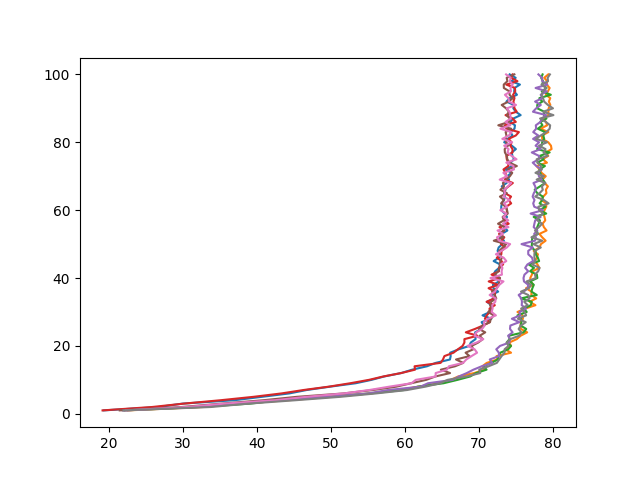
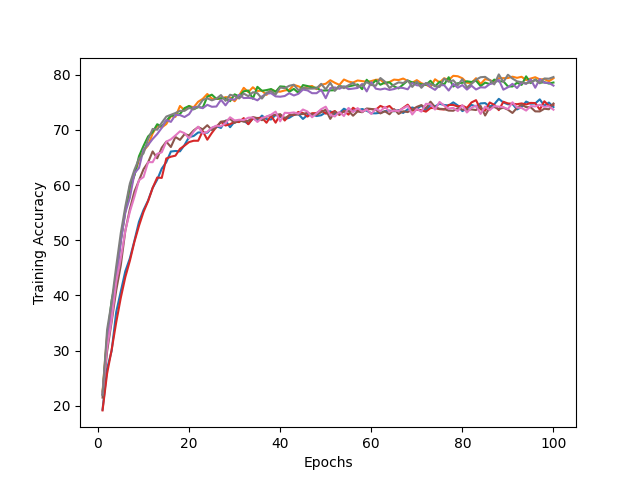
fix axis issue on figures

diff --git a/Matcha-Reproduce/plotter.py b/Matcha-Reproduce/plotter.py
@@ -34,7 +34,10 @@ if __name__ == "__main__":
         
     fig = plt.figure()
     for i in range(num_workers):
-        plt.plot(train_accuracy[:, i], range(1, epoch+1))
+        plt.plot(range(1, epoch+1), train_accuracy[:, i])
+
+    plt.xlabel('Epochs')
+    plt.ylabel('Training Accuracy')
 
     output_folder = './Figures/'
     output_name = args[4]
